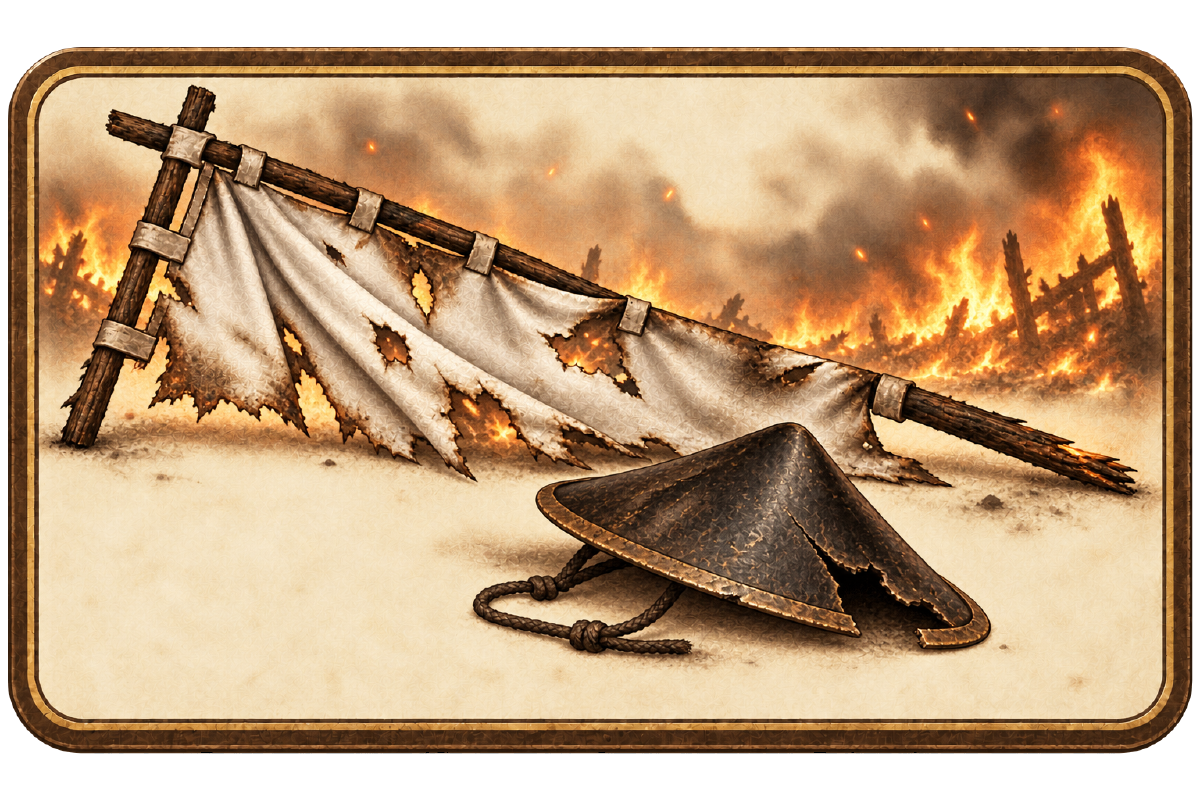
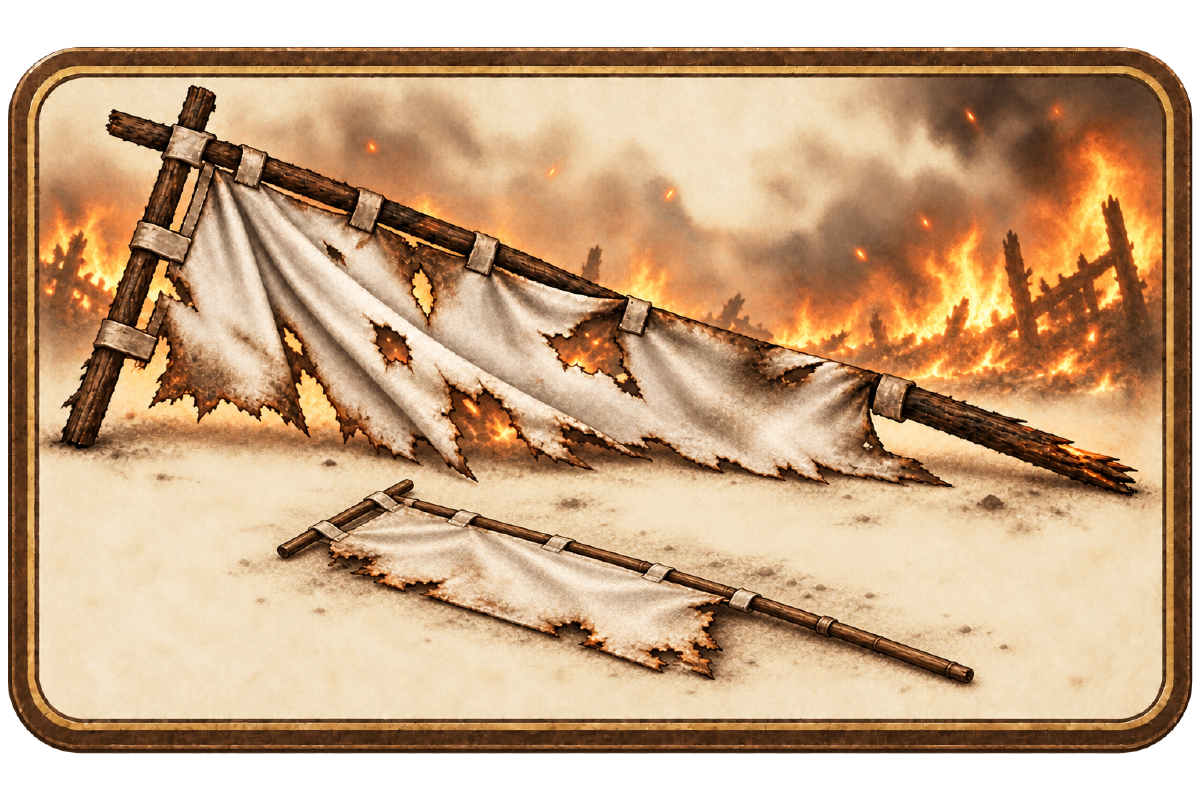
Replace the routed hat with a fallen sashimono on the ground

diff --git a/素材/状态图标/v1/README.md b/素材/状态图标/v1/README.md
@@ -37,9 +37,9 @@
 
 建议按整张画布 **240 × 120** 显示，候选左上角 **`(734,1042)`**、中心 **`(854,1102)`**，位于大方框右下、数值栏左侧；画布与右分隔线、底框均留 24 px。密集与散開**共用这一位置，互相切换**。定位仅核对了框线和一张既有槍足軽成品，尚未完成全兵种遮挡检查或 TTS 实机验收。不要裁掉透明留白后重新定位。本轮未生成阵形预览或新总览。
 
-## 敗走 · 大型横牌（revision 15）
+## 敗走 · 大型横牌（revision 16）
 
-**`routed`** 使用大型浅米横牌、深褐边与**残破倒伏白旗＋破损阵笠**。revision 15 增加旗布的撕裂、烧洞和焦边，木杆劈裂焦黑，阵笠裂开并缺损帽沿；背景加入金橙色火焰、烟气与少量余烬，主体保留旧白旗布和清楚轮廓。火光与烟气均位于牌内，牌外透明。无箭头、文字或家纹，不使用暗朱红底。此图以弃置装备表现敗走，不替换表示所属的本隊陣旗。
+**`routed`** 使用大型浅米横牌、深褐边与**残破倒伏白旗＋地面平铺的指物**。revision 16 去掉阵笠，在前景放置一面倒落的背负式指物：旧白旗布带焦边和破损，细木杆与横木一起贴地平铺，与后方大旗保持间隔。保留大旗的烧洞、劈裂木杆以及金橙色火焰、烟气与余烬。火光与烟气均位于牌内，牌外透明。无阵笠、箭头、文字或家纹，不使用暗朱红底。此图以弃置旗帜表现敗走，不替换表示所属的本隊陣旗。
 
 | 文件 | 像素尺寸 | 透明留白（左 / 上 / 右 / 下） |
 | --- | --- | --- |
@@ -64,13 +64,13 @@
 
 ## 历史预览
 
-**既有交戦、指揮外和双状态的全部总览、棋面及细节预览均为旧稿，不代表 revision 15。** 文件保留，引用统一登记在 manifest 的 `previous_revision_previews`；当前 `overview` 指向独立的 `routed.png`，没有新版总览。
+**既有交戦、指揮外和双状态的全部总览、棋面及细节预览均为旧稿，不代表 revision 16。** 文件保留，引用统一登记在 manifest 的 `previous_revision_previews`；当前 `overview` 指向独立的 `routed.png`，没有新版总览。
 
 [交戦旧总览](./总览.jpg) · [指揮外与双状态旧总览](./out_of_command_总览.jpg)。旧炭灰背面图仅是对比示意，不是 TTS 实机截图；本轮没有重新检查旧预览。
 
 ## 代码侧交接
 
-- 本次为 **`revision: 15`**：为敗走白旗、木杆和阵笠增加残破焦痕，并加入背景火光与烟气；保留大型横牌和白旗、阵笠构图。原有交戦、指揮外、密集、散開四图及其 manifest 资产条目不变；五图的显示尺寸与位置约定不变。
+- 本次为 **`revision: 16`**：去掉敗走图中的阵笠，改为前景贴地平铺的残破指物；保留后方残破白旗、火光烟气和大型横牌。原有交戦、指揮外、密集、散開四图及其 manifest 资产条目不变；五图的显示尺寸与位置约定不变。
 - 固定标识为 `engaged`、`out_of_command`、`formation_close`、`formation_open`、`routed`。两圆章独立控制且允许同时显示；两阵形图共用位置，互相切换；敗走的位置及与其他状态的显示关系交由代码侧确认。
 - 五个 `cloud_url` 均为空。本轮首选上传 **`routed.png`（1200 × 800）**，由代码侧配置资源链接、候选 600 × 400 显示尺寸及实际位置，再验证加载。仓库图片链接不代表 TTS 资源已配置或已验证。
 - 本稿仅交接图片、尺寸和定位。状态如何触发、保存／恢复及清除由代码侧按已确认规则处理；这里不推测交战或指挥范围的自动判定、回合重置等逻辑。
